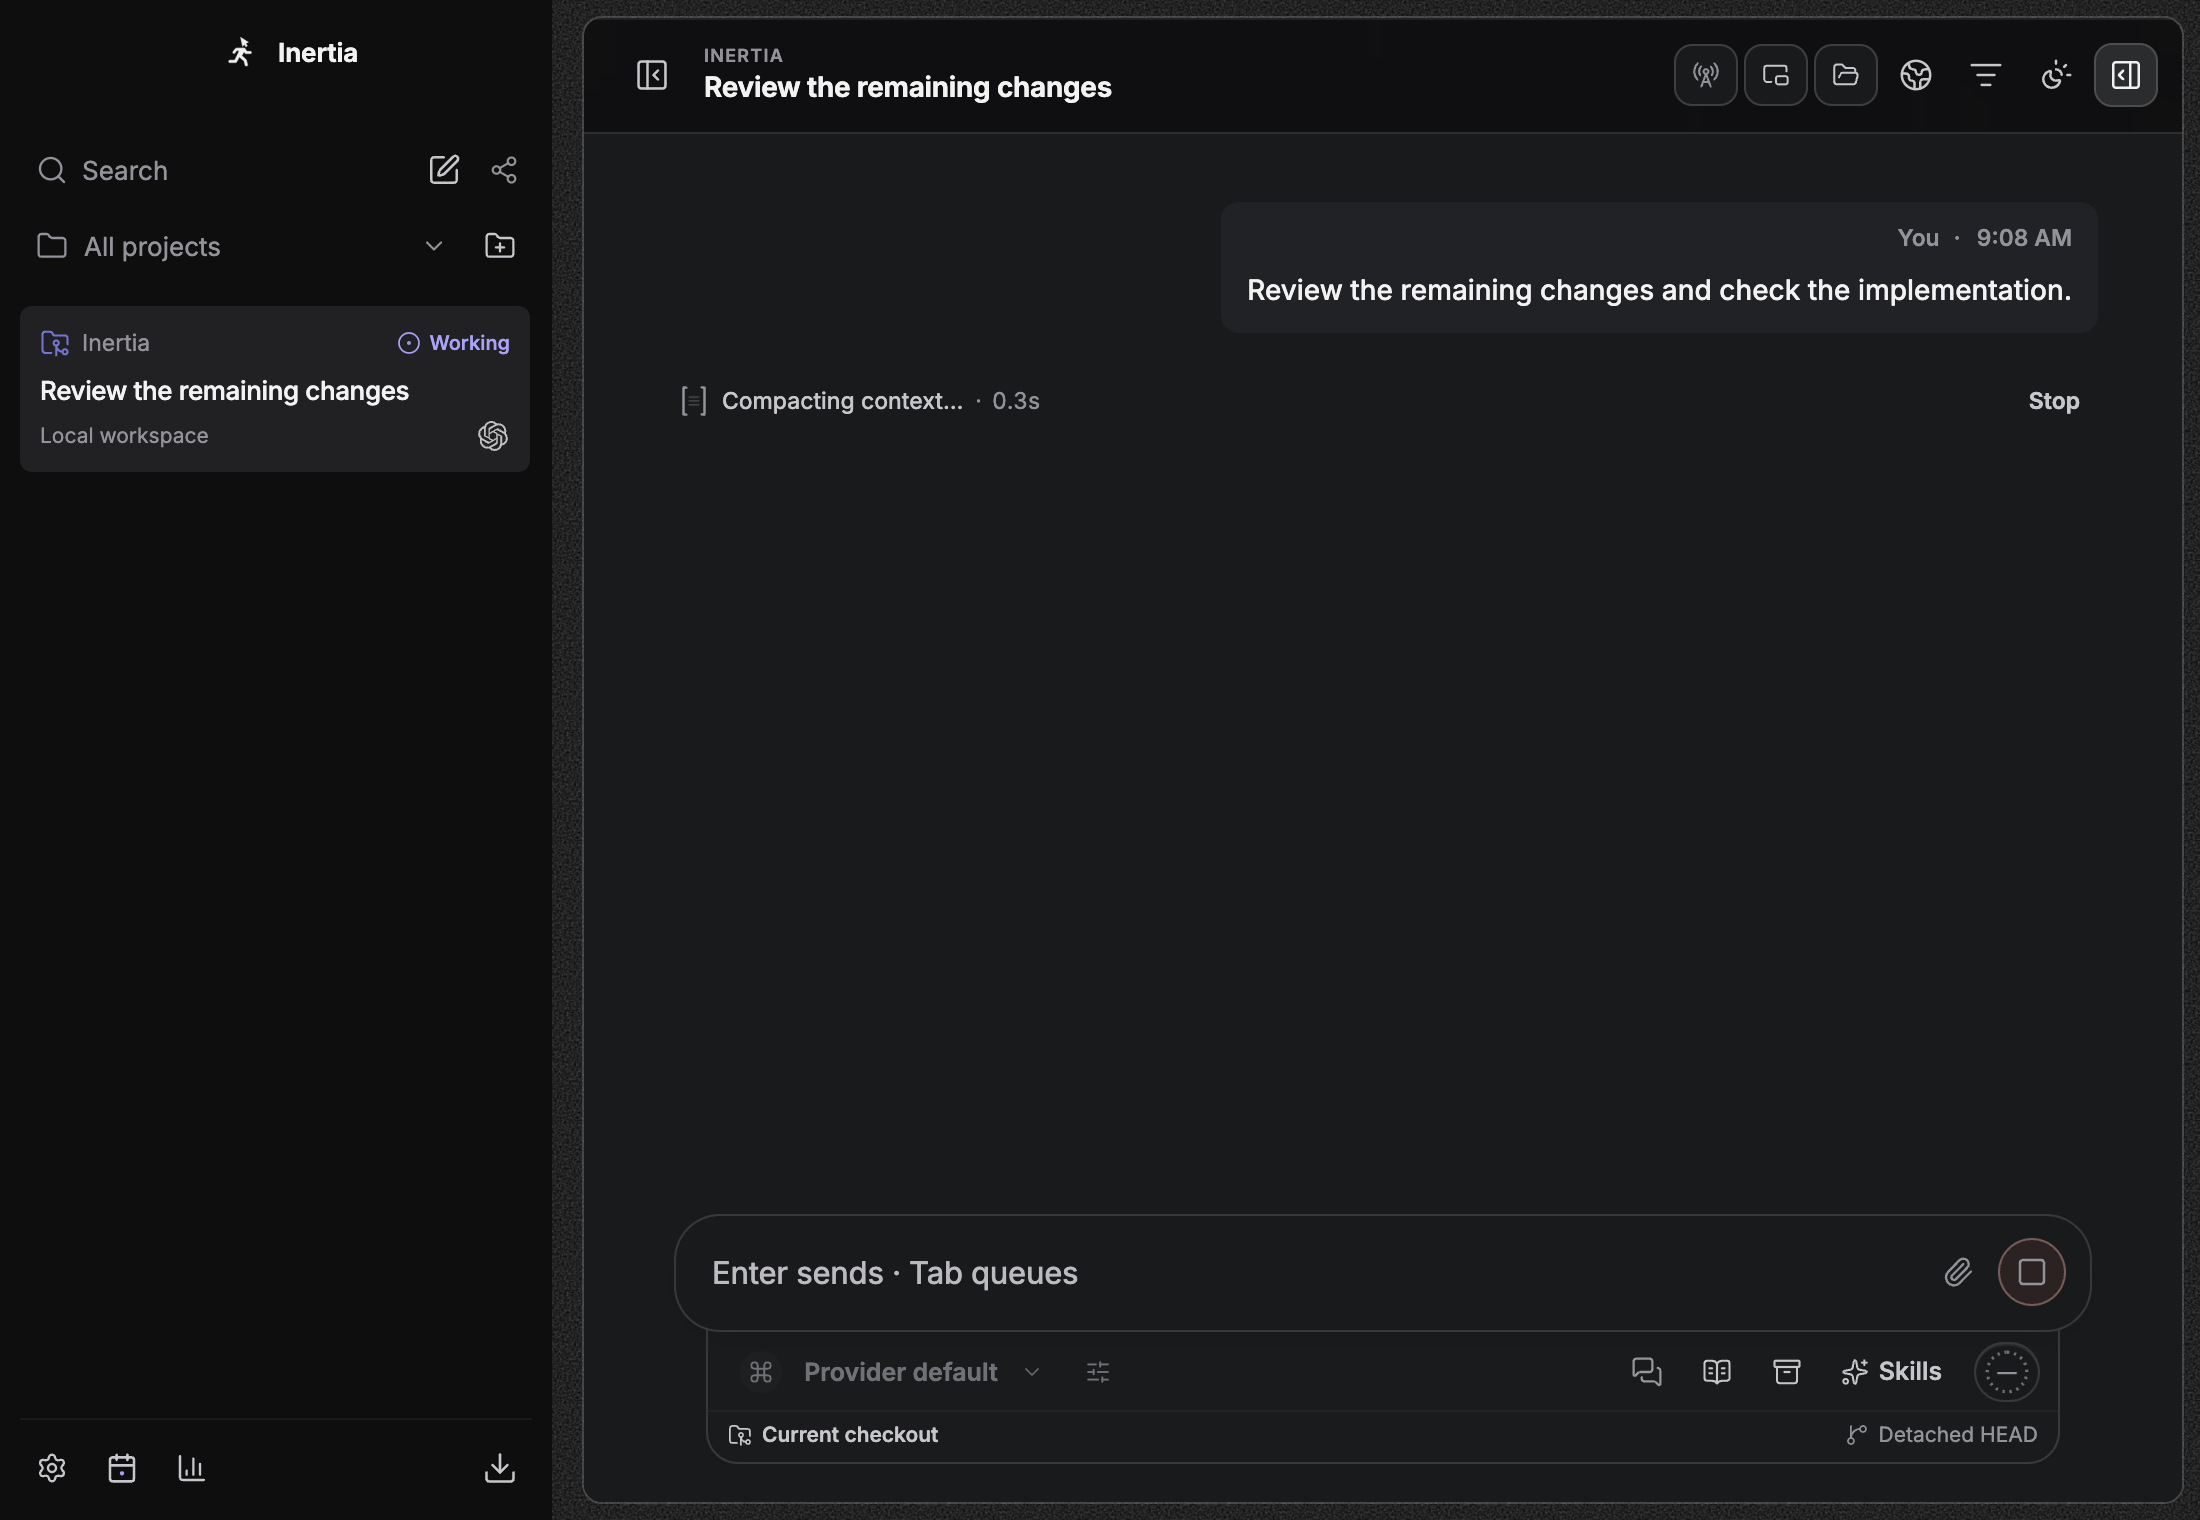
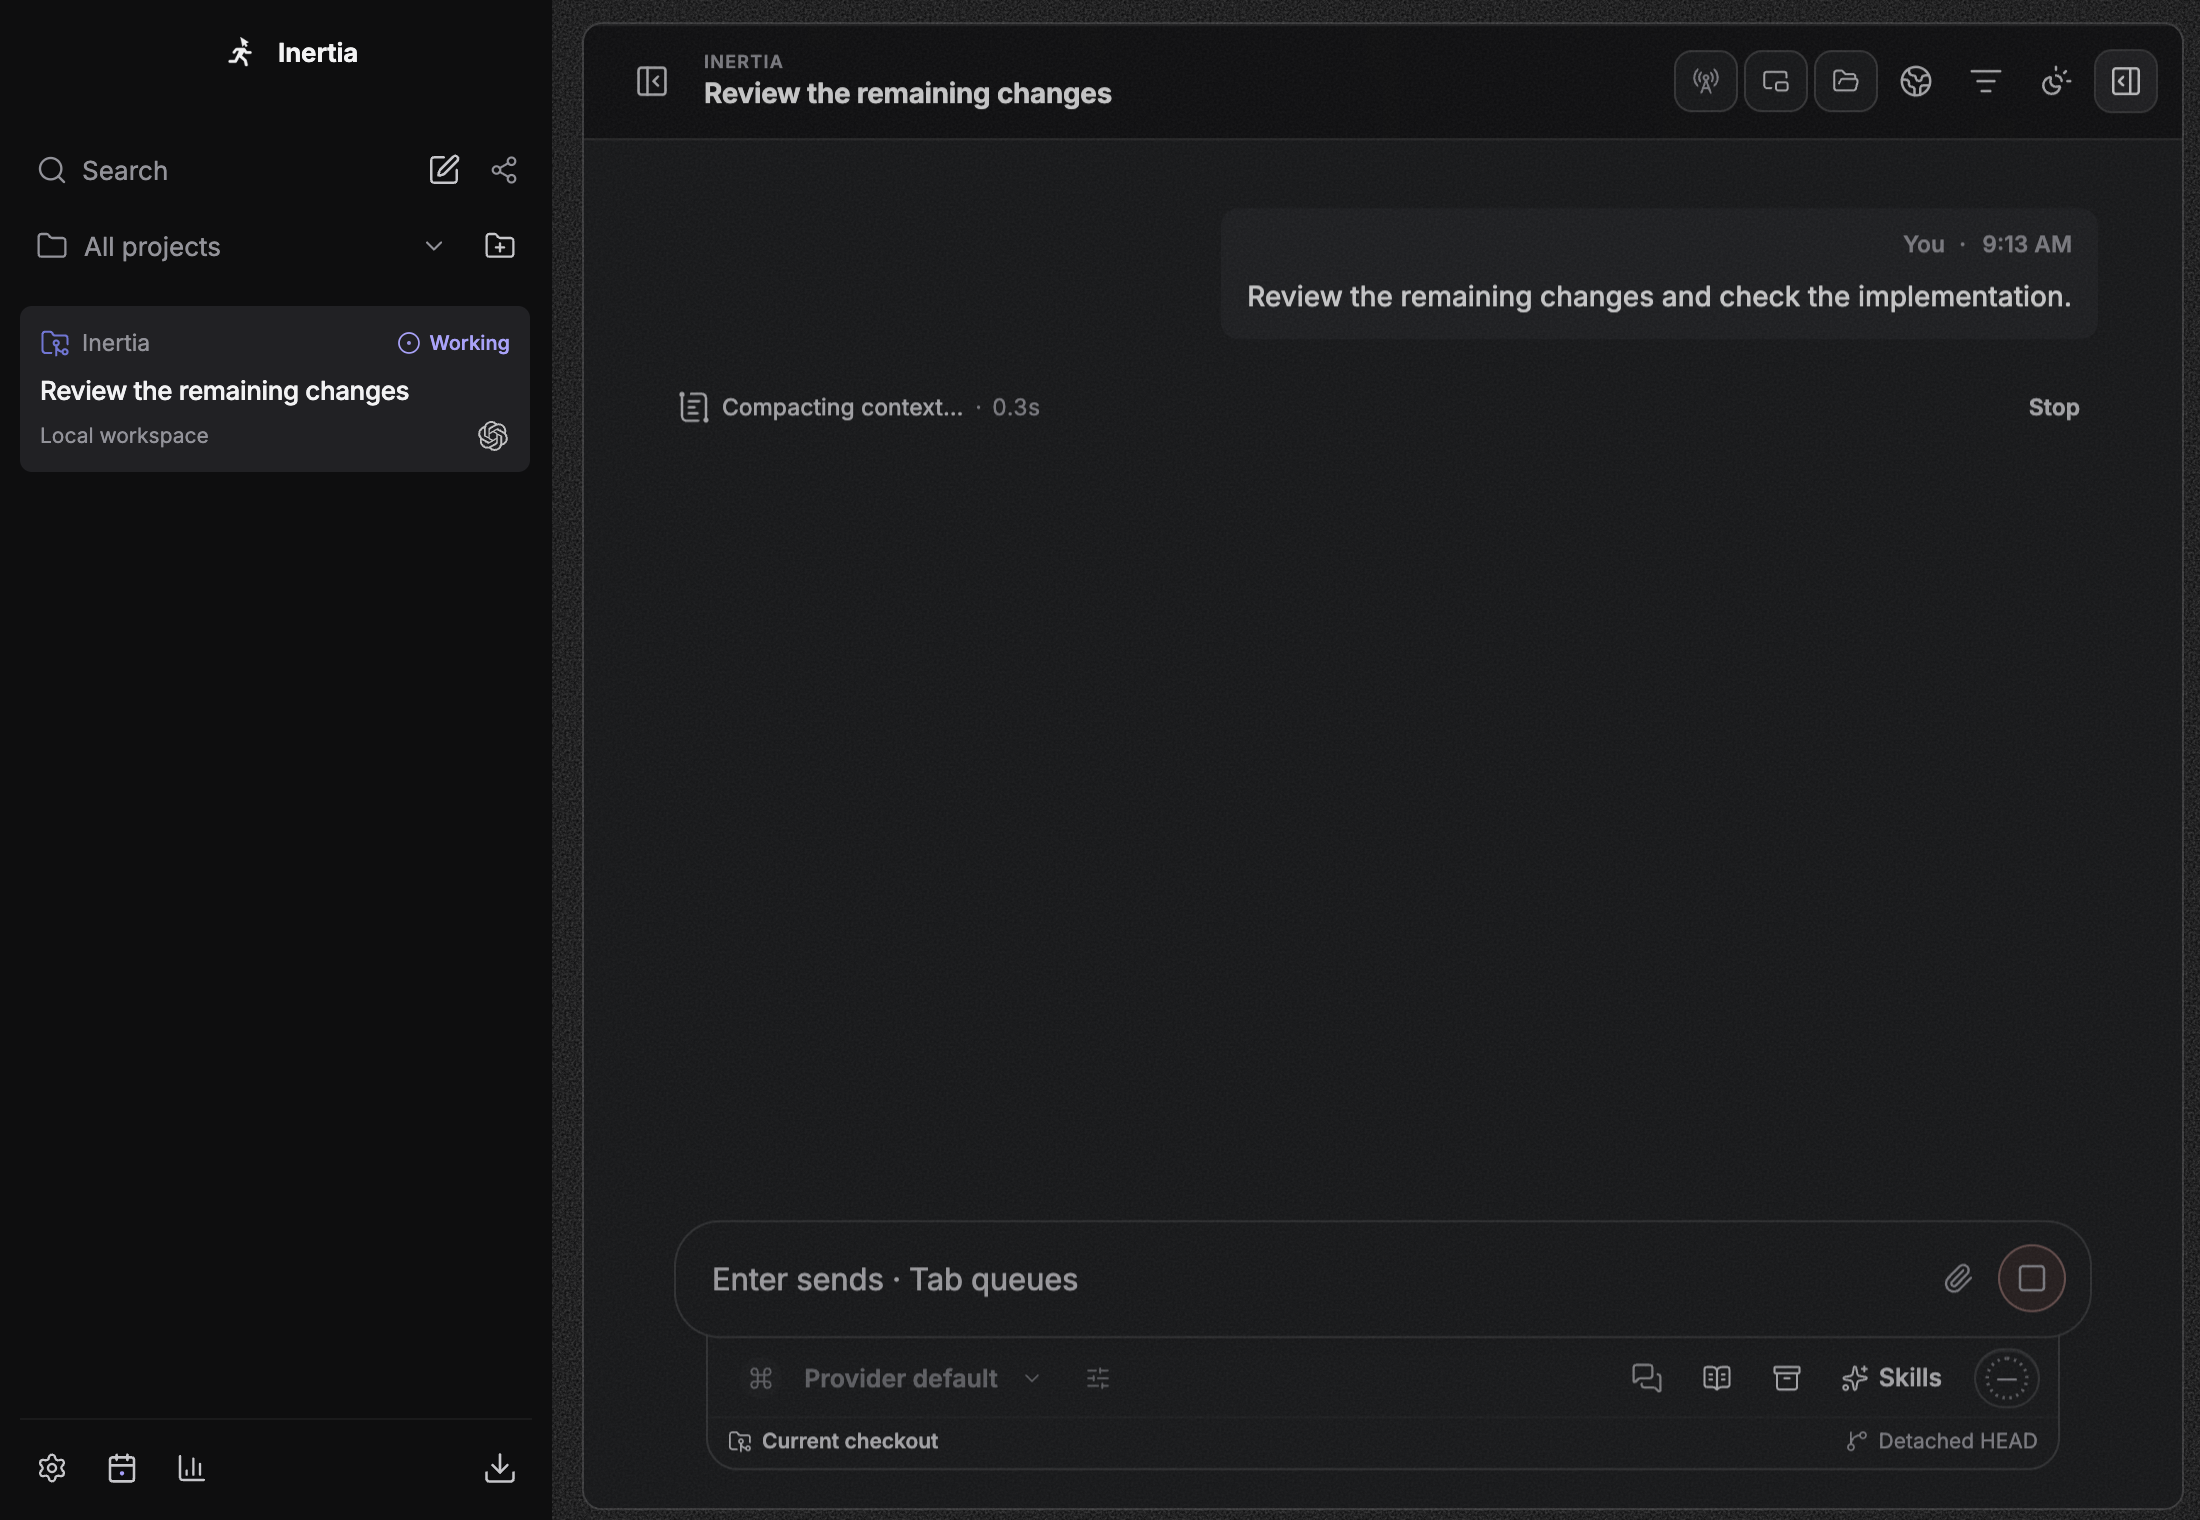
style: redraw context compaction mark with rounded outline

diff --git a/src/renderer/src/components/ContextCompactionIcon.tsx b/src/renderer/src/components/ContextCompactionIcon.tsx
@@ -4,8 +4,10 @@ export function ContextCompactionIcon(): React.JSX.Element {
   return (
     <svg className="context-compaction-icon" width="18" height="18" viewBox="0 0 24 24"
       fill="none" stroke="currentColor" strokeWidth="1.6" strokeLinecap="round" strokeLinejoin="round" aria-hidden="true">
-      <path d="M7 3H5v18h2M17 3h2v18h-2" />
-      <g><path d="M9 7h6M9 12h6M9 17h6" /></g>
+      <path d="M4 5.5V18a3 3 0 0 0 3 3h8M10 3h7a3 3 0 0 1 3 3v12.5" />
+      <circle cx="4" cy="3.5" r="1.75" fill="currentColor" stroke="none" />
+      <circle cx="20" cy="20.5" r="1.75" fill="currentColor" stroke="none" />
+      <g><path d="M8.5 8h7M8.5 12h4M8.5 16h6" /></g>
     </svg>
   );
 }

diff --git a/src/renderer/src/components/ContextCompactionIcon.css b/src/renderer/src/components/ContextCompactionIcon.css
@@ -1,11 +1,10 @@
-.context-compaction-icon { flex: 0 0 auto; color: var(--text-muted); }
+.context-compaction-icon { flex: 0 0 auto; color: var(--text-soft); }
 .context-compaction-icon > g {
-  transform-origin: 12px 12px;
-  animation: context-compaction-fold 1.8s var(--motion-ease) infinite;
+  animation: context-compaction-pulse 2.4s ease-in-out infinite;
 }
-@keyframes context-compaction-fold {
-  0%, 100% { transform: scaleY(1); opacity: 0.8; }
-  50% { transform: scaleY(0.45); opacity: 0.4; }
+@keyframes context-compaction-pulse {
+  0%, 100% { opacity: 1; }
+  50% { opacity: 0.45; }
 }
 @media (prefers-reduced-motion: reduce) {
   .context-compaction-icon > g { animation: none; }

diff --git a/src/renderer/src/components/sidebar/workspace-navigation.css b/src/renderer/src/components/sidebar/workspace-navigation.css
@@ -286,7 +286,7 @@
   }
 }
 @media (prefers-reduced-motion: reduce) {
-    .sidebar-scope-actions .project-menu {
+  .sidebar-scope-actions .project-menu {
     animation: none;
   }
 }
